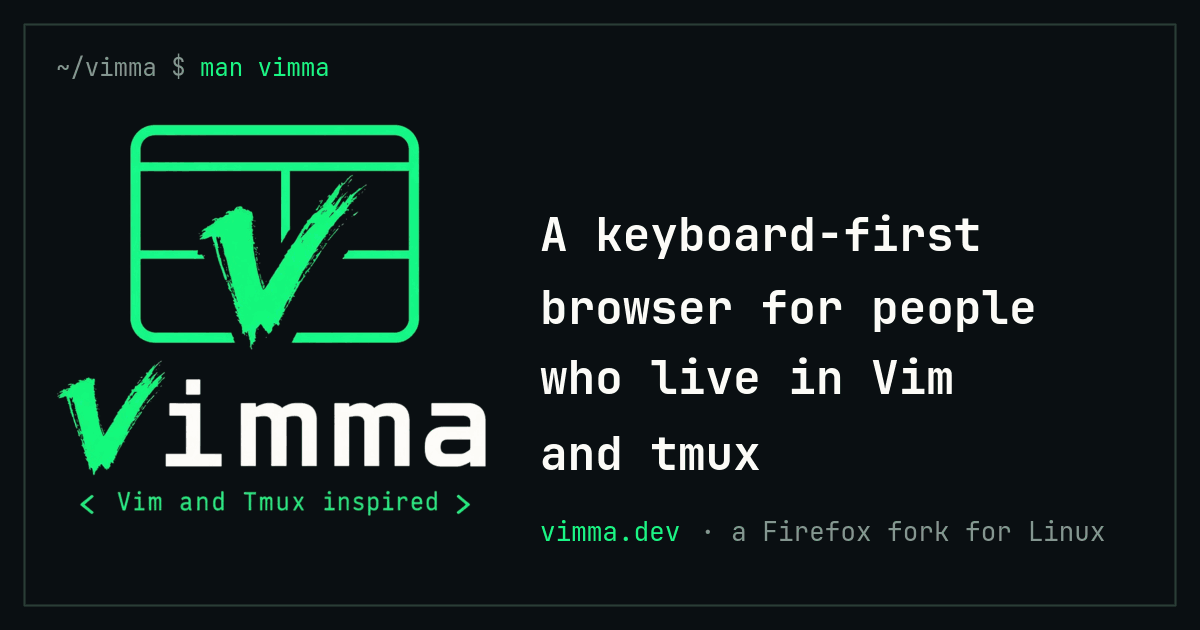
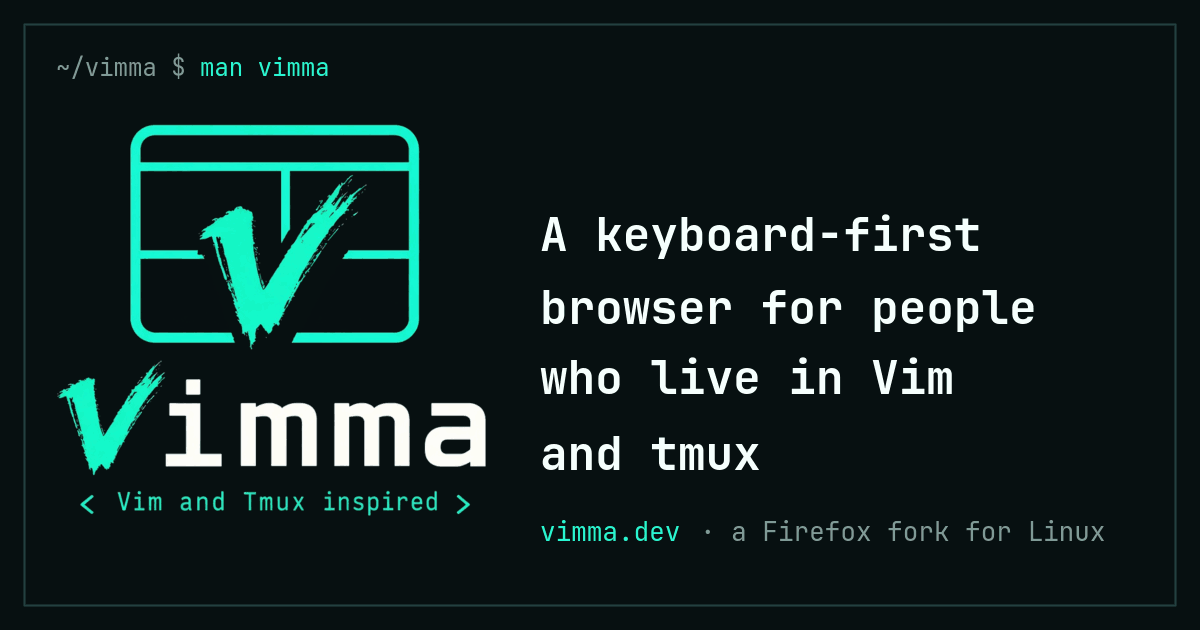
feat(palette): move the site from mint to the aqua split palette
Mint on near-black read as tmux's default status bar at a glance. The new palette keeps the
terminal look: an aqua accent (#2cf5d2) on teal-black (#071011), with a hot magenta (#ff4fb8)
as the second neon where cyan used to be. The light variant takes a deep teal and a deep
berry for text, and `npm run check` passes every pair at AA (lowest 4.95:1).

The logo images, favicons and link-preview image are regenerated by optimize-logo.sh and
og-image.sh from the recoloured masters that the browser repo's branding change commits, so
the site and the app keep one logo. The --mint token is renamed --aqua.

The header comment also drops the line saying the browser ships Tokyo Night: its default is
the vimma palette.

diff --git a/assets/css/home.css b/assets/css/home.css
@@ -3,7 +3,7 @@
  * file, You can obtain one at http://mozilla.org/MPL/2.0/. */
 
 /* The home page's bands, loaded by that page only; tokens and shared parts are in site.css.
-   An 80s synthwave poster and a retro tech brochure, in Vimma's mint and cyan on near-black: the
+   An 80s synthwave poster and a retro tech brochure, in Vimma's aqua and magenta on teal-black: the
    hero is a poster, a perspective grid running to a horizon with one lens flare, under faint
    scanlines; racing stripes divide the bands; the facts are an instrument strip, the video plays
    in a terminal window and the features are numbered spec panels, both in HUD corner brackets. Every effect is a CSS gradient, so nothing
@@ -19,7 +19,7 @@ main.bands {
   padding: var(--band) 0;
 }
 
-/* racing stripes over every band but the first: mint, then cyan, thinning out */
+/* racing stripes over every band but the first: aqua, then magenta, thinning out */
 .band + .band::before {
   content: "";
   position: absolute;
@@ -29,8 +29,8 @@ main.bands {
   height: 9px;
   transform: translateX(-50%);
   background: linear-gradient(180deg,
-    var(--mint) 0 3px, transparent 3px 5px,
-    color-mix(in srgb, var(--mint) 50%, var(--neon)) 5px 7px, transparent 7px 8px,
+    var(--aqua) 0 3px, transparent 3px 5px,
+    color-mix(in srgb, var(--aqua) 50%, var(--neon)) 5px 7px, transparent 7px 8px,
     var(--neon) 8px 9px);
   -webkit-mask-image: linear-gradient(90deg, transparent, #000 15%, #000 85%, transparent);
   mask-image: linear-gradient(90deg, transparent, #000 15%, #000 85%, transparent);
@@ -141,7 +141,7 @@ main.bands {
   text-wrap: balance;
 }
 
-/* the one word in light: sunset colours, mint into cyan */
+/* the one word in light: sunset colours, aqua into magenta */
 .display .accent {
   background: linear-gradient(180deg, var(--accent) 30%, var(--neon));
   -webkit-background-clip: text;
@@ -185,7 +185,7 @@ main.bands {
 }
 
 .button.primary:hover {
-  box-shadow: 0 6px 24px -10px var(--mint);
+  box-shadow: 0 6px 24px -10px var(--aqua);
 }
 
 /* the scene fills the rest of the first screen: the sky with the horizon, then the floor */
@@ -203,7 +203,7 @@ main.bands {
   position: absolute;
   inset: 0 0 38%;
   overflow: hidden;
-  background: radial-gradient(ellipse 40% 90% at 50% 100%, color-mix(in srgb, var(--mint) 16%, transparent), transparent 70%),
+  background: radial-gradient(ellipse 40% 90% at 50% 100%, color-mix(in srgb, var(--aqua) 16%, transparent), transparent 70%),
     radial-gradient(1px 1px at 18% 30%, color-mix(in srgb, var(--fg-bright) 60%, transparent), transparent),
     radial-gradient(1px 1px at 30% 62%, color-mix(in srgb, var(--fg-bright) 40%, transparent), transparent),
     radial-gradient(1px 1px at 76% 24%, color-mix(in srgb, var(--fg-bright) 55%, transparent), transparent),
@@ -220,11 +220,11 @@ main.bands {
   bottom: 0;
   left: 0;
   height: 2px;
-  background: linear-gradient(90deg, transparent 5%, var(--neon) 30%, var(--mint) 50%, var(--neon) 70%, transparent 95%);
+  background: linear-gradient(90deg, transparent 5%, var(--neon) 30%, var(--aqua) 50%, var(--neon) 70%, transparent 95%);
 }
 
 /* a lens flare where the sun would be: a white core on the horizon (white in both palettes:
-   it is light, not text), drawn out sideways in mint */
+   it is light, not text), drawn out sideways in aqua */
 .sky::before {
   content: "";
   position: absolute;
@@ -234,8 +234,8 @@ main.bands {
   height: 30px;
   transform: translateX(-50%);
   background: radial-gradient(ellipse 8% 45% at 50% 50%, #fff, transparent 100%),
-    radial-gradient(ellipse 50% 40% at 50% 50%, color-mix(in srgb, var(--mint) 80%, transparent), transparent 100%),
-    radial-gradient(ellipse 18% 100% at 50% 50%, color-mix(in srgb, var(--mint) 45%, transparent), transparent 100%);
+    radial-gradient(ellipse 50% 40% at 50% 50%, color-mix(in srgb, var(--aqua) 80%, transparent), transparent 100%),
+    radial-gradient(ellipse 18% 100% at 50% 50%, color-mix(in srgb, var(--aqua) 45%, transparent), transparent 100%);
   filter: blur(1px);
 }
 
@@ -257,7 +257,7 @@ main.bands {
   transform-origin: top center;
   transform: perspective(300px) rotateX(64deg);
   background-image:
-    linear-gradient(90deg, color-mix(in srgb, var(--mint) 40%, transparent) 1px, transparent 1px),
+    linear-gradient(90deg, color-mix(in srgb, var(--aqua) 40%, transparent) 1px, transparent 1px),
     linear-gradient(180deg, color-mix(in srgb, var(--neon) 30%, transparent) 1px, transparent 1px);
   background-size: 56px 56px;
   background-position: center top;
@@ -343,7 +343,7 @@ main.bands {
   }
 }
 
-/* --- HUD corner brackets: a short mint stroke each way at every corner, a little outside -- */
+/* --- HUD corner brackets: a short aqua stroke each way at every corner, a little outside -- */
 
 .hud {
   position: relative;
@@ -389,7 +389,7 @@ main.bands {
   border-radius: 14px;
   background: var(--bg-darker);
   box-shadow: 0 40px 100px -40px rgb(0 0 0 / 0.8),
-    0 0 0 1px color-mix(in srgb, var(--mint) 8%, transparent);
+    0 0 0 1px color-mix(in srgb, var(--aqua) 8%, transparent);
 }
 
 .window-bar {
@@ -417,7 +417,7 @@ main.bands {
 }
 
 .lights span:first-child {
-  background: var(--mint);
+  background: var(--aqua);
 }
 
 .lights span:nth-child(2) {
@@ -462,7 +462,7 @@ main.bands {
 }
 
 .specs li:hover {
-  background: color-mix(in srgb, var(--mint) 4%, var(--bg));
+  background: color-mix(in srgb, var(--aqua) 4%, var(--bg));
 }
 
 .specs .label {

diff --git a/assets/css/site.css b/assets/css/site.css
@@ -3,58 +3,58 @@
  * file, You can obtain one at http://mozilla.org/MPL/2.0/. */
 
 /* vimma-site: the shared stylesheet (the home page adds home.css). A terminal in Vimma's own
-   colours, taken from its logo: the mint mark on its near-black tile, with an off-white wordmark.
-   A light variant serves light systems. Every text colour pair is checked for WCAG AA by
-   `npm run check`, which reads the two palette blocks below by their
-   marker comments. (The browser itself ships Tokyo Night; that is the browser's theme, not the
-   site's, see docs/theming.) */
+   colours, taken from its logo: the aqua mark on its teal-black tile, with an off-white wordmark,
+   and a hot magenta as the second neon (--neon). A light variant serves light systems. Every text colour pair is checked for WCAG AA by
+   `npm run check`, which reads the two palette blocks below by their marker comments. */
 
-/* palette:dark — sampled from the logo (vimma-mark.png, vimma-logo-wide.jpg): the tile #0a0f13,
-   the mint #1bf587, the wordmark #fcfbf7. --accent-2 is the logo's shaded mint #2ba564. */
+/* palette:dark — Vimma's "Aqua Split" palette, shared with the browser's built-in theme and the
+   logo: the tile #071011, the aqua #2cf5d2, the magenta #ff4fb8, the wordmark #f5fffd.
+   --accent-2 is a shaded aqua for visited links. */
 :root {
   color-scheme: dark light;
-  --bg: #0a0f12;
-  --bg-dark: #070b0d;
-  --bg-darker: #040708;
-  --bg-light: #111a1b;
-  --selection: #163327;
-  --border: #2a3d36;
-  --fg: #c4cec8;
-  --fg-muted: #849690;
-  --fg-bright: #fcfbf7;
-  --accent: #1bf587;
-  --accent-2: #2ba564;
-  --mint: #1bf587;
-  --green: #8eeeb8;
+  --bg: #071011;
+  --bg-dark: #050c0d;
+  --bg-darker: #030708;
+  --bg-light: #0e1b1c;
+  --selection: #123532;
+  --border: #234040;
+  --fg: #c2d6d3;
+  --fg-muted: #7f9a96;
+  --fg-bright: #f5fffd;
+  --accent: #2cf5d2;
+  --accent-2: #2fb8a3;
+  --aqua: #2cf5d2;
+  --green: #9af2e2;
   --yellow: #f2c94c;
   --red: #ff6b6b;
-  --badge-fg: #04120a;
+  --badge-fg: #03140f;
   --hint-fg: #1a1300;
-  --neon: #22e4f0;
+  --neon: #ff4fb8;
 }
 
-/* palette:light — the logo's off-white for ground. The mint is too pale for text on it, so text
-   and links take a deep green from the same hue; the bright mint stays for decoration only. */
+/* palette:light — an off-white for ground. The aqua is too pale for text on it, so text and links
+   take a deep teal from the same hue, and the magenta a deep berry; the bright aqua stays for
+   decoration only. */
 @media (prefers-color-scheme: light) {
   :root {
-    --bg: #f5f4ef;
-    --bg-dark: #eae9e2;
-    --bg-darker: #e1e0d8;
-    --bg-light: #fcfbf7;
-    --selection: #c6efd8;
-    --border: #a3b0a9;
-    --fg: #1d2924;
-    --fg-muted: #4b5a53;
-    --fg-bright: #0a0f12;
-    --accent: #056a39;
-    --accent-2: #0b5c4e;
-    --mint: #1bf587;
-    --green: #2a5a40;
+    --bg: #f3f6f4;
+    --bg-dark: #e7ecea;
+    --bg-darker: #dde3e1;
+    --bg-light: #fbfdfc;
+    --selection: #c3efe6;
+    --border: #a0b3af;
+    --fg: #1b2a28;
+    --fg-muted: #4a5b58;
+    --fg-bright: #071011;
+    --accent: #006b5e;
+    --accent-2: #0d5d63;
+    --aqua: #2cf5d2;
+    --green: #1f5a51;
     --yellow: #7a5200;
     --red: #a1232d;
     --badge-fg: #fcfbf7;
     --hint-fg: #fcfbf7;
-    --neon: #0e7490;
+    --neon: #b0226f;
   }
 }
 /* end palette */
@@ -114,11 +114,11 @@
   box-sizing: border-box;
 }
 
-/* a faint mint light at the top of every page, as if the logo lit it */
+/* a faint aqua light at the top of every page, as if the logo lit it */
 body {
   margin: 0;
   min-height: 100vh;
-  background: radial-gradient(ellipse 60% 32rem at 50% -8rem, color-mix(in srgb, var(--mint) 8%, transparent), transparent 70%) no-repeat,
+  background: radial-gradient(ellipse 60% 32rem at 50% -8rem, color-mix(in srgb, var(--aqua) 8%, transparent), transparent 70%) no-repeat,
     var(--bg);
 }
 
@@ -130,7 +130,7 @@ body {
 a {
   color: var(--accent);
   text-decoration: underline;
-  text-decoration-color: color-mix(in srgb, var(--mint) 45%, transparent);
+  text-decoration-color: color-mix(in srgb, var(--aqua) 45%, transparent);
   text-underline-offset: 0.2em;
 }
 
@@ -143,10 +143,10 @@ a:hover {
   text-decoration-color: currentColor;
 }
 
-/* on the light ground the mint is decoration only: a full-strength underline under deep green */
+/* on the light ground the aqua is decoration only: a full-strength underline under deep teal */
 @media (prefers-color-scheme: light) {
   a:not(:hover) {
-    text-decoration-color: var(--mint);
+    text-decoration-color: var(--aqua);
     text-decoration-thickness: 2px;
   }
 }
@@ -376,8 +376,8 @@ li + li {
 }
 
 .tabs a[aria-current] {
-  border-color: color-mix(in srgb, var(--mint) 50%, transparent);
-  background: color-mix(in srgb, var(--mint) 14%, var(--bg));
+  border-color: color-mix(in srgb, var(--aqua) 50%, transparent);
+  background: color-mix(in srgb, var(--aqua) 14%, var(--bg));
   color: var(--fg-bright);
   font-weight: 600;
 }

diff --git a/src/docs/theming.html b/src/docs/theming.html
@@ -1,5 +1,5 @@
 <!-- Hand-written guide for the theming page; the build adds the keys table and the details from guide.md. -->
-<p class="lead">Vimma's own parts of the window share one colour theme: the status bar, the command line, the pickers, link hints, pane borders and the start page. Out of the box it is Vimma's own palette, the mint and near-black of this site, in a dark and a light variant.</p>
+<p class="lead">Vimma's own parts of the window share one colour theme: the status bar, the command line, the pickers, link hints, pane borders and the start page. Out of the box it is Vimma's own palette, the aqua, magenta and teal-black of this site, in a dark and a light variant.</p>
 
 <h2 id="where-colours-come-from">Where the colours come from</h2>
 

diff --git a/src/pages/about.html b/src/pages/about.html
@@ -39,7 +39,7 @@
 
   <dt id="omarchy">Do I need Omarchy?</dt>
   <dd>
-    <p>No. On <a href="https://omarchy.org/">Omarchy</a>, Vimma follows your theme and recolours when you change it. Elsewhere it uses its built-in palette, the mint and near-black of this site, in a dark or light variant to match your system. You can also set your own colours in <code>config.toml</code>.</p>
+    <p>No. On <a href="https://omarchy.org/">Omarchy</a>, Vimma follows your theme and recolours when you change it. Elsewhere it uses its built-in palette, the aqua, magenta and teal-black of this site, in a dark or light variant to match your system. You can also set your own colours in <code>config.toml</code>.</p>
   </dd>
 
   <dt id="status">What works today?</dt>

diff --git a/scripts/seo.ts b/scripts/seo.ts
@@ -24,7 +24,7 @@ export const OG_IMAGE = {
   path: "assets/img/og-image.png",
   width: 1200,
   height: 630,
-  alt: `The Vimma logo, a mint browser window with a V, next to the words "${TAGLINE}".`,
+  alt: `The Vimma logo, an aqua browser window with a V, next to the words "${TAGLINE}".`,
 };
 
 /**

diff --git a/README.md b/README.md
@@ -1,8 +1,8 @@
 # vimma-site
 
 The website for Vimma, a keyboard-first Firefox fork with a Neovim-style modal layer and a
-tmux-style `ctrl+b` prefix. It is set in Vimma's own colours, the mint and near-black of its logo
-with cyan beside the mint, and a light variant for light systems: Space Grotesk for headings
+tmux-style `ctrl+b` prefix. It is set in Vimma's own colours, the aqua and teal-black of its logo
+with magenta beside the aqua, and a light variant for light systems: Space Grotesk for headings
 (served from `assets/fonts/`, SIL Open Font License), the system sans-serif for text and monospace
 for code and keys, a header with the logo, the pages centred in a rounded tray and the keys hint,
 and Vim keys on the site itself (press `?`).
